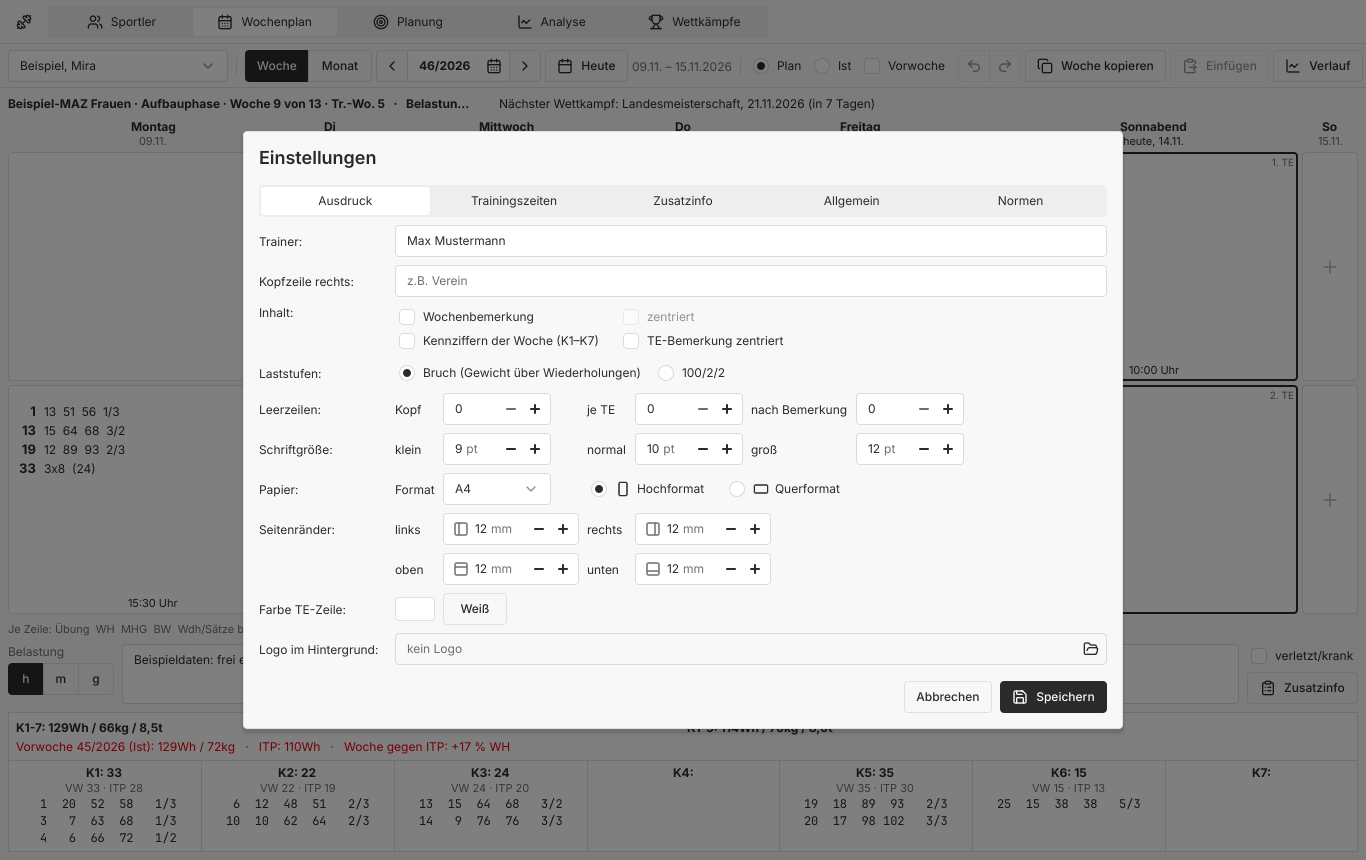
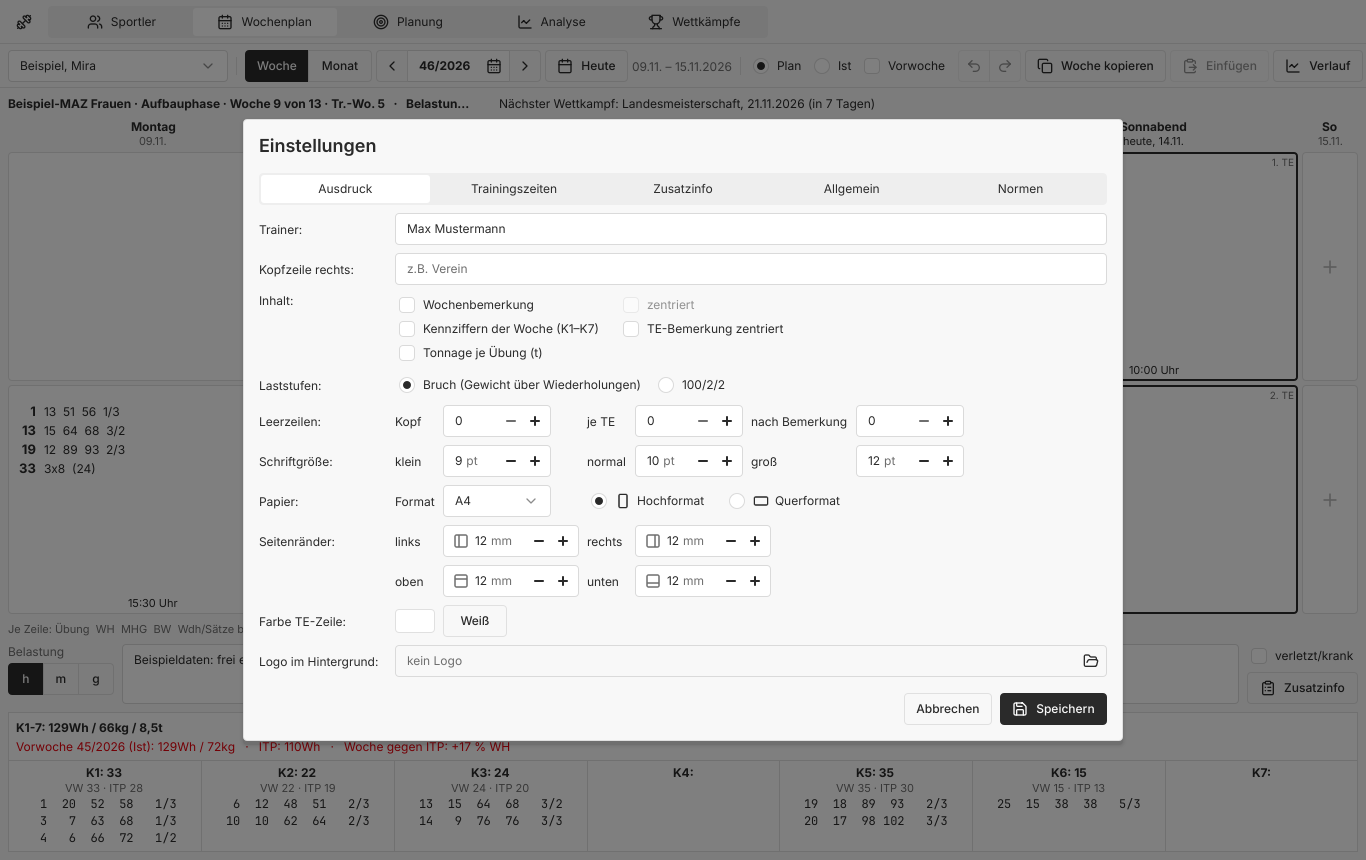
Add tonnage, AMKT and print date to the week plan
IDA's week print shows more than the old program's: each exercise
line's tonnage, the general strength reps in the header and when the
plan was made. The week plan now prints:

- the date it was printed, small at the top: which version of the
  plan hangs on the wall;

- with the new option "Tonnage je Übung" a column "t" with each line's
  tonnage, off by default so the layout the trainers know stays;

- beside K1-7 and K1-5 in the week's figures the AMKT reps (groups 8
  and 9, the reps of weight lines and the totals of text lines), when
  the week has any.

diff --git a/qml/SettingsDialog.qml b/qml/SettingsDialog.qml
@@ -30,6 +30,7 @@ AppDialog {
         weekNote.checked = printOpts.weekNote
         weekNoteCentered.checked = printOpts.weekNoteCentered
         figures.checked = printOpts.figures
+        tonnage.checked = printOpts.tonnage
         sessionNoteCentered.checked = printOpts.sessionNoteCentered
         fraction.checked = printOpts.notation !== "slash"
         slash.checked = printOpts.notation === "slash"
@@ -101,6 +102,7 @@ AppDialog {
             weekNote: weekNote.checked,
             weekNoteCentered: weekNoteCentered.checked,
             figures: figures.checked,
+            tonnage: tonnage.checked,
             sessionNoteCentered: sessionNoteCentered.checked,
             notation: slash.checked ? "slash" : "fraction",
             blankHeader: blankHeader.value,
@@ -190,6 +192,7 @@ AppDialog {
                         CheckBox { id: weekNoteCentered; text: "zentriert"; enabled: weekNote.checked }
                         CheckBox { id: figures; text: "Kennziffern der Woche (K1–K7)" }
                         CheckBox { id: sessionNoteCentered; text: "TE-Bemerkung zentriert" }
+                        CheckBox { id: tonnage; objectName: "printTonnage"; text: "Tonnage je Übung (t)" }
                     }
 
                     Label { text: "Laststufen:"; Layout.rightMargin: 8 }

diff --git a/src/weekreport.cpp b/src/weekreport.cpp
@@ -1,6 +1,7 @@
 #include "weekreport.h"
 
 #include <QFontMetricsF>
+#include <QLocale>
 #include <QImage>
 #include <QPageLayout>
 #include <QPainter>
@@ -135,8 +136,9 @@ void drawSession(Page &pg, const Options &o, const Session &s)
     QPainter *p = pg.painter();
     const double W = pg.width();
     const double cTu = pg.mm(9), cWh = pg.mm(10), cMhg = pg.mm(11), cBw = pg.mm(10);
-    const double cContent = W - cTu - cWh - cMhg - cBw;
-    const double xContent = cTu, xWh = cTu + cContent, xMhg = xWh + cWh, xBw = xMhg + cMhg;
+    const double cT = o.tonnage ? pg.mm(11) : 0;
+    const double cContent = W - cTu - cWh - cMhg - cBw - cT;
+    const double xContent = cTu, xWh = cTu + cContent, xMhg = xWh + cWh, xBw = xMhg + cMhg, xT = xBw + cBw;
     const double scale = o.fontNormal / 10.0;
     const double headH = pg.mm(6 * scale);
     const double weightH = pg.mm((o.notation == Options::Slash ? 6.5 : 10) * scale);
@@ -156,6 +158,8 @@ void drawSession(Page &pg, const Options &o, const Session &s)
         p->drawRect(QRectF(0, top, W, h));
         for (double x : {xContent, xWh, xMhg, xBw})
             p->drawLine(QPointF(x, top), QPointF(x, top + h));
+        if (o.tonnage)
+            p->drawLine(QPointF(xT, top), QPointF(xT, top + h));
     };
 
     auto drawHeader = [&]() {
@@ -169,6 +173,8 @@ void drawSession(Page &pg, const Options &o, const Session &s)
         p->drawText(QRectF(xWh, top, cWh, headH), Qt::AlignCenter, QStringLiteral("WH"));
         p->drawText(QRectF(xMhg, top, cMhg, headH), Qt::AlignCenter, QStringLiteral("MHG"));
         p->drawText(QRectF(xBw, top, cBw, headH), Qt::AlignCenter, QStringLiteral("BW"));
+        if (o.tonnage)
+            p->drawText(QRectF(xT, top, cT, headH), Qt::AlignCenter, QStringLiteral("t"));
         pg.y += headH;
     };
 
@@ -200,6 +206,8 @@ void drawSession(Page &pg, const Options &o, const Session &s)
             p->drawText(QRectF(xWh, top, cWh, h), Qt::AlignCenter, num(stats.wh));
             p->drawText(QRectF(xMhg, top, cMhg, h), Qt::AlignCenter, num(stats.mhg));
             p->drawText(QRectF(xBw, top, cBw, h), Qt::AlignCenter, num(stats.bw));
+            if (o.tonnage)
+                p->drawText(QRectF(xT, top, cT, h), Qt::AlignCenter, WeekReport::tonnageText(stats));
         } else {
             p->setFont(font(o.fontNormal));
             QString text = e.text;
@@ -253,13 +261,22 @@ void drawSummary(Page &pg, const Options &o, const Week &week)
 
     p->setPen(QPen(Qt::black, pg.mm(0.25)));
     double top = pg.y;
+    // K1-7 and K1-5, and the general strength exercises' reps when there
+    // are any (AMKT, groups 8 and 9)
+    const int amkt = WeekReport::amktReps(week);
+    QStringList cells{QStringLiteral("K1-7: ") + sum.groups1to7.summary(),
+                      QStringLiteral("K1-5: ") + sum.groups1to5.summary()};
+    if (amkt > 0)
+        cells.append(QStringLiteral("AMKT: %1Wh").arg(amkt));
+    const double cellW = W / cells.size();
     p->drawRect(QRectF(0, top, W, topH));
-    p->drawLine(QPointF(W / 2, top), QPointF(W / 2, top + topH));
     p->setFont(font(o.fontNormal, true));
-    p->drawText(QRectF(pg.mm(2), top, W / 2 - pg.mm(4), topH), Qt::AlignLeft | Qt::AlignVCenter,
-                QStringLiteral("K1-7: ") + sum.groups1to7.summary());
-    p->drawText(QRectF(W / 2 + pg.mm(2), top, W / 2 - pg.mm(4), topH),
-                Qt::AlignLeft | Qt::AlignVCenter, QStringLiteral("K1-5: ") + sum.groups1to5.summary());
+    for (int i = 0; i < cells.size(); ++i) {
+        if (i > 0)
+            p->drawLine(QPointF(cellW * i, top), QPointF(cellW * i, top + topH));
+        p->drawText(QRectF(cellW * i + pg.mm(2), top, cellW - pg.mm(4), topH), Qt::AlignLeft | Qt::AlignVCenter,
+                    cells[i]);
+    }
     top += topH;
 
     const double colW = W / Catalog::summaryGroups;
@@ -294,6 +311,30 @@ void drawSummary(Page &pg, const Options &o, const Week &week)
 } // namespace
 
 namespace WeekReport {
+
+QString tonnageText(const Stats &stats)
+{
+    return stats.tonnage > 0 ? QLocale(QLocale::German).toString(stats.tonnage / 1000.0, 'f', 2) : QString();
+}
+
+int amktReps(const Week &week)
+{
+    int reps = 0;
+    for (const Session &s : week.sessions) {
+        for (const Entry &e : s.entries) {
+            const Exercise *ex = Catalog::find(e.exercise);
+            if (!ex || (ex->group != 8 && ex->group != 9))
+                continue;
+            reps += e.kind == Entry::Weights ? e.stats().wh : e.kind == Entry::ExerciseText ? e.totalReps : 0;
+        }
+    }
+    return reps;
+}
+
+QString createdText(const QDate &day)
+{
+    return QStringLiteral("erstellt am ") + day.toString(QStringLiteral("dd.MM.yyyy"));
+}
 
 QPageLayout Options::pageLayout() const
 {
@@ -331,6 +372,9 @@ void render(QPagedPaintDevice *device, const Week &week, const Header &header, c
                     QStringLiteral("Trainer: ") + header.trainer);
     p->drawText(QRectF(W / 2, 0, W / 2, lineH), Qt::AlignRight | Qt::AlignVCenter,
                 header.organisation);
+    // When it was printed: which version of the plan hangs on the wall
+    p->setFont(font(o.fontSmall));
+    p->drawText(QRectF(W / 4, 0, W / 2, lineH), Qt::AlignCenter, WeekReport::createdText(QDate::currentDate()));
     pg.y += lineH;
 
     const double titleH = pg.mm(7 * o.fontLarge / 12.0);

diff --git a/src/store.cpp b/src/store.cpp
@@ -593,7 +593,7 @@ void Store::setOrganisation(const QString &v)
 
 namespace {
 
-const char *kPrintBool[] = {"weekNote", "weekNoteCentered", "figures", "sessionNoteCentered", "landscape"};
+const char *kPrintBool[] = {"weekNote", "weekNoteCentered", "figures", "tonnage", "sessionNoteCentered", "landscape"};
 const char *kPrintInt[] = {"blankHeader", "blankPerSession", "blankAfterNote", "marginTop", "marginLeft",
                            "marginRight", "marginBottom"};
 const char *kPrintReal[] = {"fontSmall", "fontNormal", "fontLarge"};
@@ -609,6 +609,7 @@ WeekReport::Options readPrintOptions()
     o.weekNote = s.value(QStringLiteral("weekNote"), o.weekNote).toBool();
     o.weekNoteCentered = s.value(QStringLiteral("weekNoteCentered"), o.weekNoteCentered).toBool();
     o.figures = s.value(QStringLiteral("figures"), o.figures).toBool();
+    o.tonnage = s.value(QStringLiteral("tonnage"), o.tonnage).toBool();
     o.sessionNoteCentered = s.value(QStringLiteral("sessionNoteCentered"), o.sessionNoteCentered).toBool();
     o.landscape = s.value(QStringLiteral("landscape"), o.landscape).toBool();
     const QString paper = s.value(QStringLiteral("paper")).toString();
@@ -643,6 +644,7 @@ QVariantMap Store::printOptions() const
         {QStringLiteral("weekNote"), o.weekNote},
         {QStringLiteral("weekNoteCentered"), o.weekNoteCentered},
         {QStringLiteral("figures"), o.figures},
+        {QStringLiteral("tonnage"), o.tonnage},
         {QStringLiteral("sessionNoteCentered"), o.sessionNoteCentered},
         {QStringLiteral("landscape"), o.landscape},
         {QStringLiteral("paper"), std::find_if(kPapers.begin(), kPapers.end(), [&](const auto &p) {

diff --git a/tests/tst_core.cpp b/tests/tst_core.cpp
@@ -801,10 +801,24 @@ void TestCore::printWithAllOptions()
     Entry e;
     e.exercise = 8;
     e.steps = {{13, 4, 3, 1}, {15, 3, 2, 0}};
-    s.entries = {e};
+    // General strength: a weight line and a text line with its reps
+    Entry bench;
+    bench.exercise = 31;
+    bench.steps = {{40, 10, 3, 0}};
+    Entry pullUps;
+    pullUps.kind = Entry::ExerciseText;
+    pullUps.exercise = 33;
+    pullUps.text = QStringLiteral("3x8");
+    pullUps.totalReps = 24;
+    s.entries = {e, bench, pullUps};
     w.sessions = {s};
+    // A line's tonnage in t; the AMKT reps of the week; the date printed
+    QCOMPARE(WeekReport::tonnageText(e.stats()), QStringLiteral("0,25"));  // 13*12 + 15*6 = 246 kg
+    QCOMPARE(WeekReport::tonnageText(Stats()), QString());
+    QCOMPARE(WeekReport::amktReps(w), 30 + 24);
+    QCOMPARE(WeekReport::createdText(QDate(2026, 11, 14)), QStringLiteral("erstellt am 14.11.2026"));
     WeekReport::Options o;
-    o.weekNote = o.weekNoteCentered = o.figures = o.sessionNoteCentered = o.landscape = true;
+    o.weekNote = o.weekNoteCentered = o.figures = o.tonnage = o.sessionNoteCentered = o.landscape = true;
     o.notation = WeekReport::Options::Slash;
     o.blankHeader = 2;
     o.blankPerSession = 3;

diff --git a/src/weekreport.h b/src/weekreport.h
@@ -31,6 +31,7 @@ struct Options
     bool weekNote = false;          // print the week note
     bool weekNoteCentered = false;
     bool figures = false;           // weekly figures K1-K7
+    bool tonnage = false;           // a column "t" with each line's tonnage
     bool sessionNoteCentered = false;
     Notation notation = Fraction;
     int blankHeader = 0;            // empty lines below the header
@@ -50,6 +51,13 @@ struct Options
 
     QPageLayout pageLayout() const;
 };
+
+// What the printout shows beside the old program's: a line's tonnage in
+// t ("0,66"), the week's AMKT reps (groups 8 and 9: the reps of weight
+// lines and the totals of text lines), and the creation line
+QString tonnageText(const Stats &stats);
+int amktReps(const Week &week);
+QString createdText(const QDate &day);
 
 // Paints all pages onto `device` (a QPrinter or QPdfWriter that is already
 // set up with pageLayout()).

diff --git a/docs/HANDBUCH.md b/docs/HANDBUCH.md
@@ -227,6 +227,17 @@ Seitenvorschau wie im alten Programm. Dort lassen sich der Drucker und das
 Papier wählen. Was auf dem Ausdruck steht, legen die
 [Einstellungen › Ausdruck](#9-einstellungen) fest.
 
+Oben in der Mitte steht klein, wann der Plan gedruckt wurde („erstellt
+am 14.11.2026“): so ist klar, welche Fassung an der Wand hängt. Mit
+**Tonnage je Übung** bekommt jede Zeile eine Spalte **t**, die bewegte
+Last der Zeile in Tonnen. Die **Kennziffern der Woche** nennen neben
+K1-7 und K1-5 auch die Wiederholungen der allgemeinen Kraftübungen
+(**AMKT**, Gruppen 8 und 9), wenn es welche gibt.
+
+> **Beispiel:** Miras Woche 45/2026 (Ist): Reißen am Montag 13 WH,
+> MHG 56, BW 62, t 0,73; in der Woche K1-7 129 WH, K1-5 114 WH und
+> AMKT 24 WH (Klimmzüge 3×8).
+
 ---
 
 ## 4. Monat und Wettkampftermine
@@ -624,7 +635,8 @@ die der Junioren und Aktiven.
 
 *Hantel-Menü › Einstellungen…*
 
-- **Ausdruck**: Trainer und Kopfzeile, was auf den Wochenplan kommt,
+- **Ausdruck**: Trainer und Kopfzeile, was auf den Wochenplan kommt
+  (auch die Tonnage je Übung),
   Schriftgrößen, Papier und Ränder, Logo.
 - **Trainingszeiten**: die üblichen Zeiten der 1., 2. und 3. TE und wie
   viele Einheiten pro Tag die Woche zeigt.

diff --git a/docs/RESEARCH-IDA-RTK.md b/docs/RESEARCH-IDA-RTK.md
@@ -130,7 +130,7 @@ M days, L a week or more.
 
 | # | Idea | Source | Size |
 |---|---|---|---|
-| 13 | Print: tonnage per exercise line, AMKT WH in the header, creation date | IDA p.17 | S |
+| 13 | Print: tonnage per exercise line, AMKT WH in the header, creation date (done, November 2026: a "t" column as an option of Ausdruck, AMKT WH beside K1-7 and K1-5 in the week's figures, "erstellt am" at the top) | IDA p.17 | S |
 | 14 | "Letzter Eintrag": jump to the last week with data | IDA p.14 | S |
 | 15 | A note per exercise line, not only per session | IDA p.15 | S–M |
 | 16 | Colour per K group on the lines of week and month | IDA p.15–16 | S |
